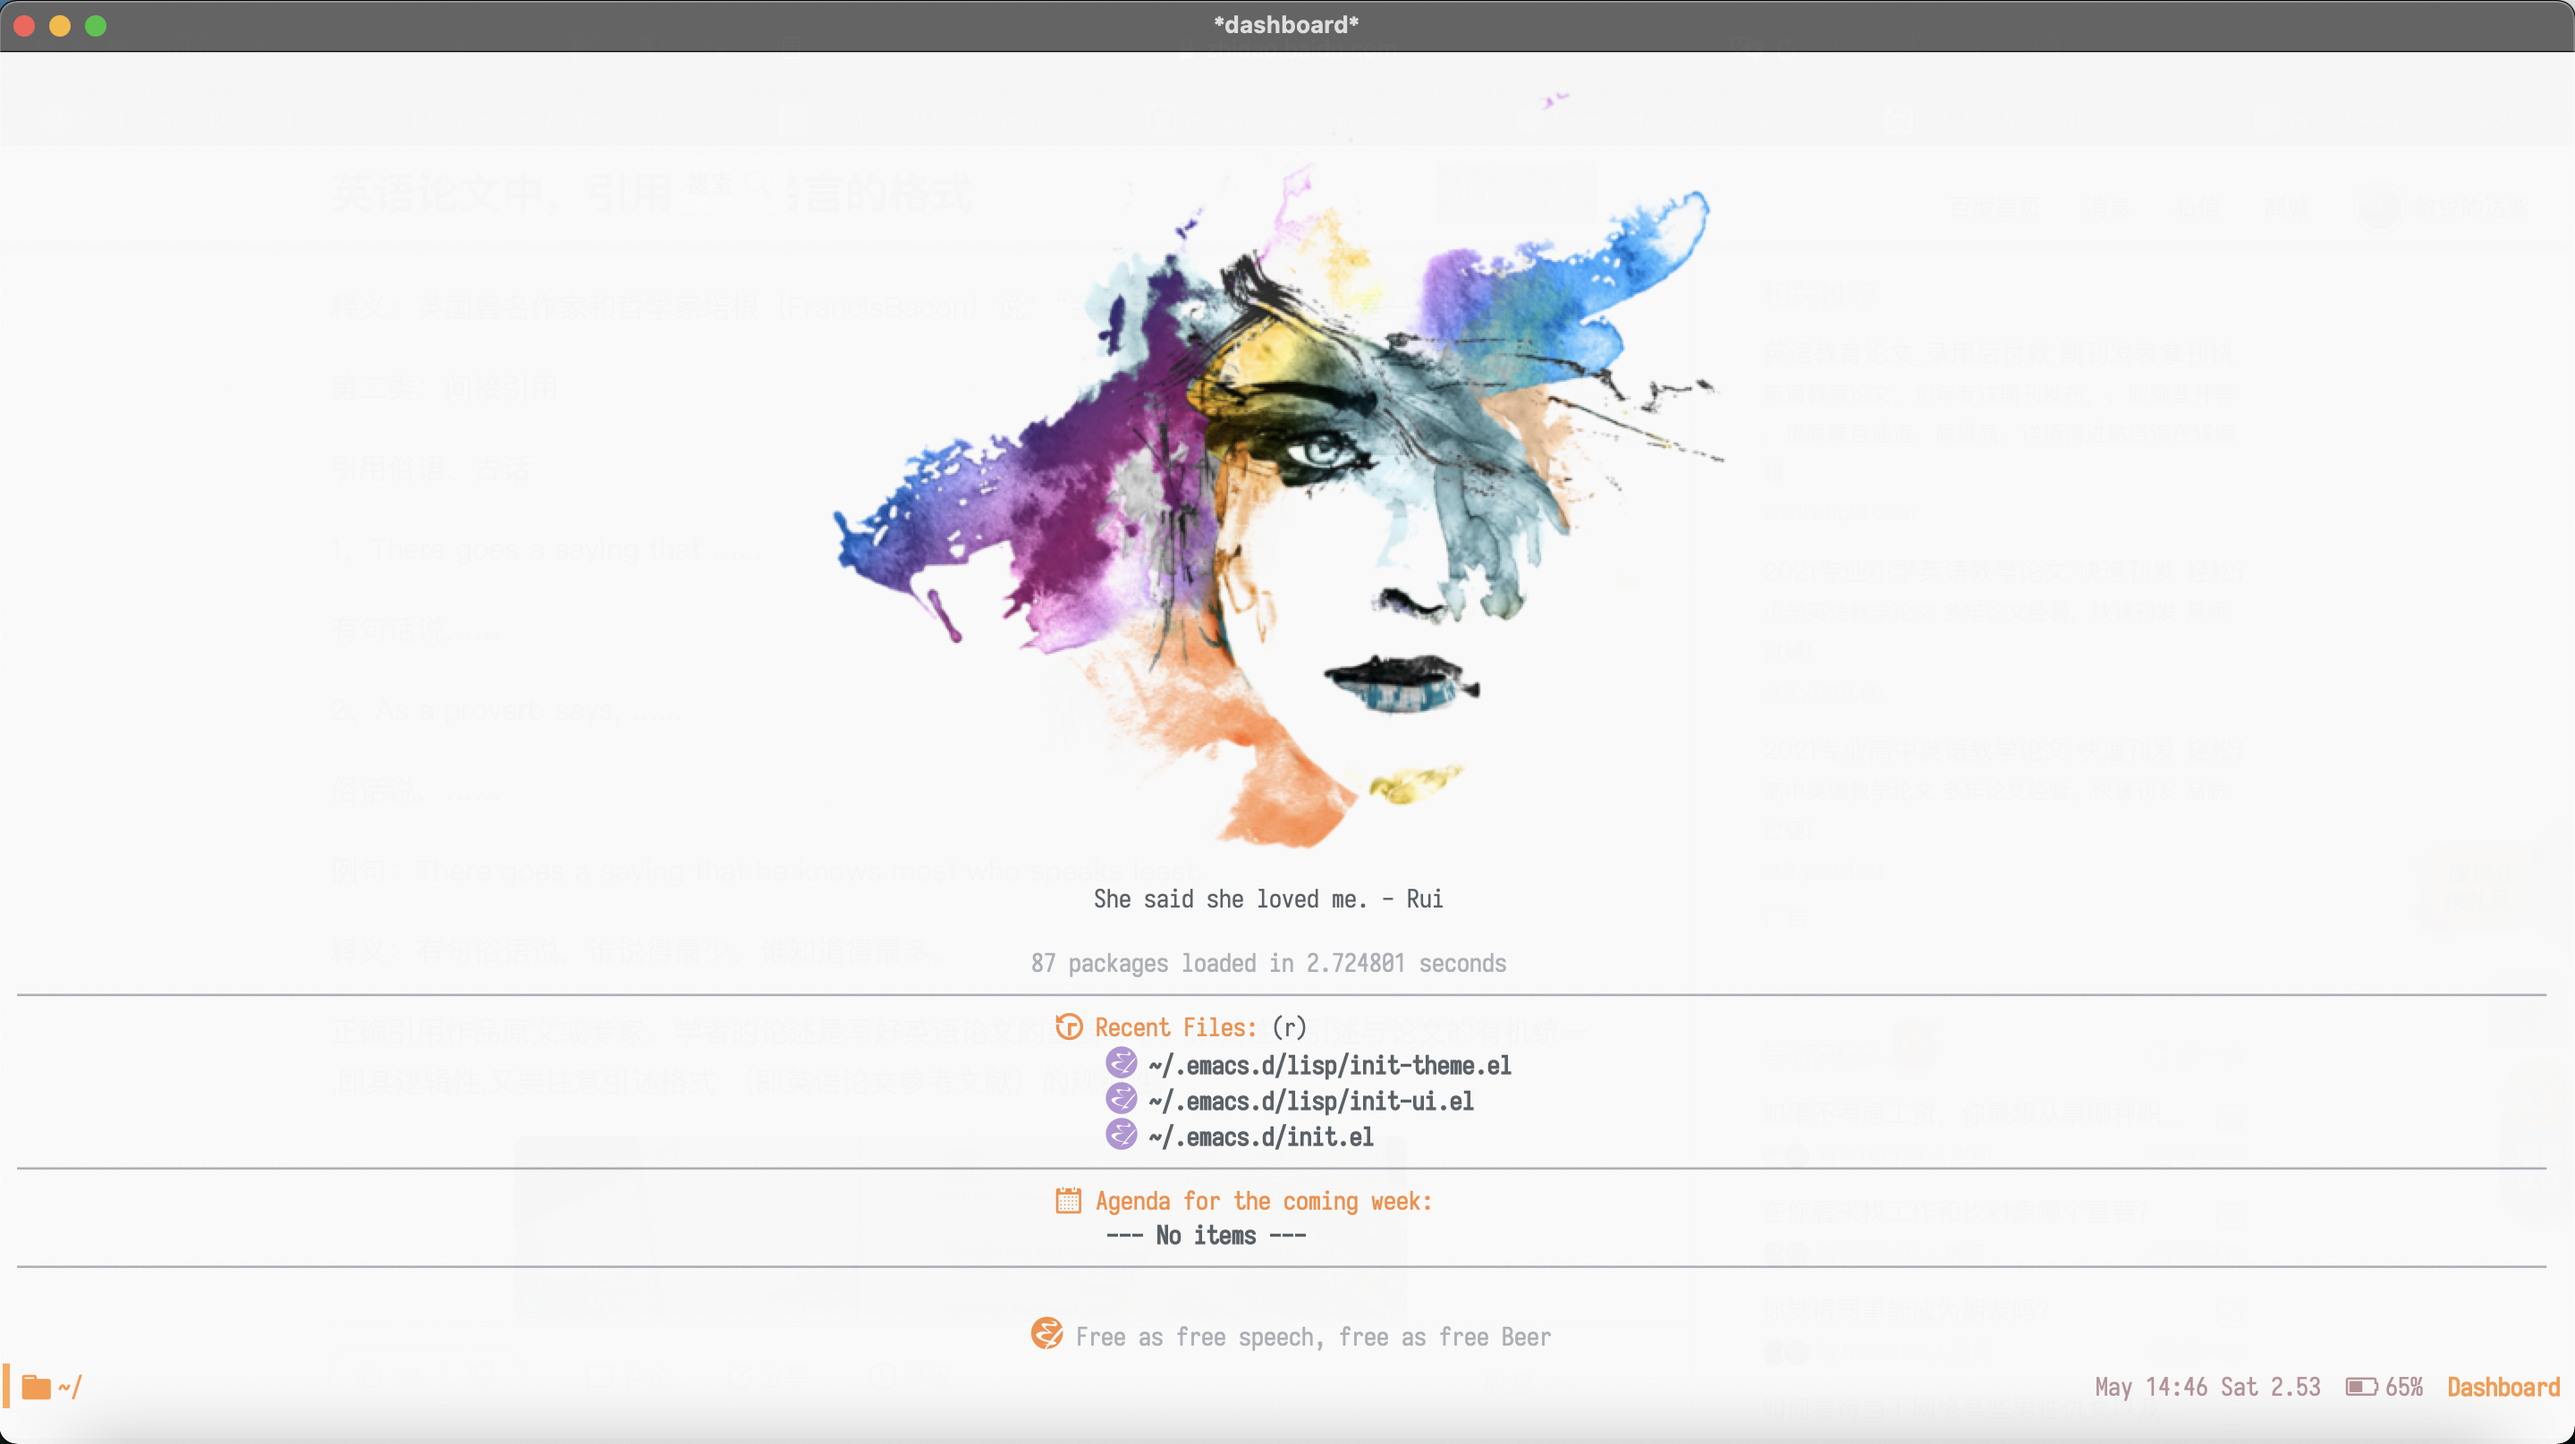
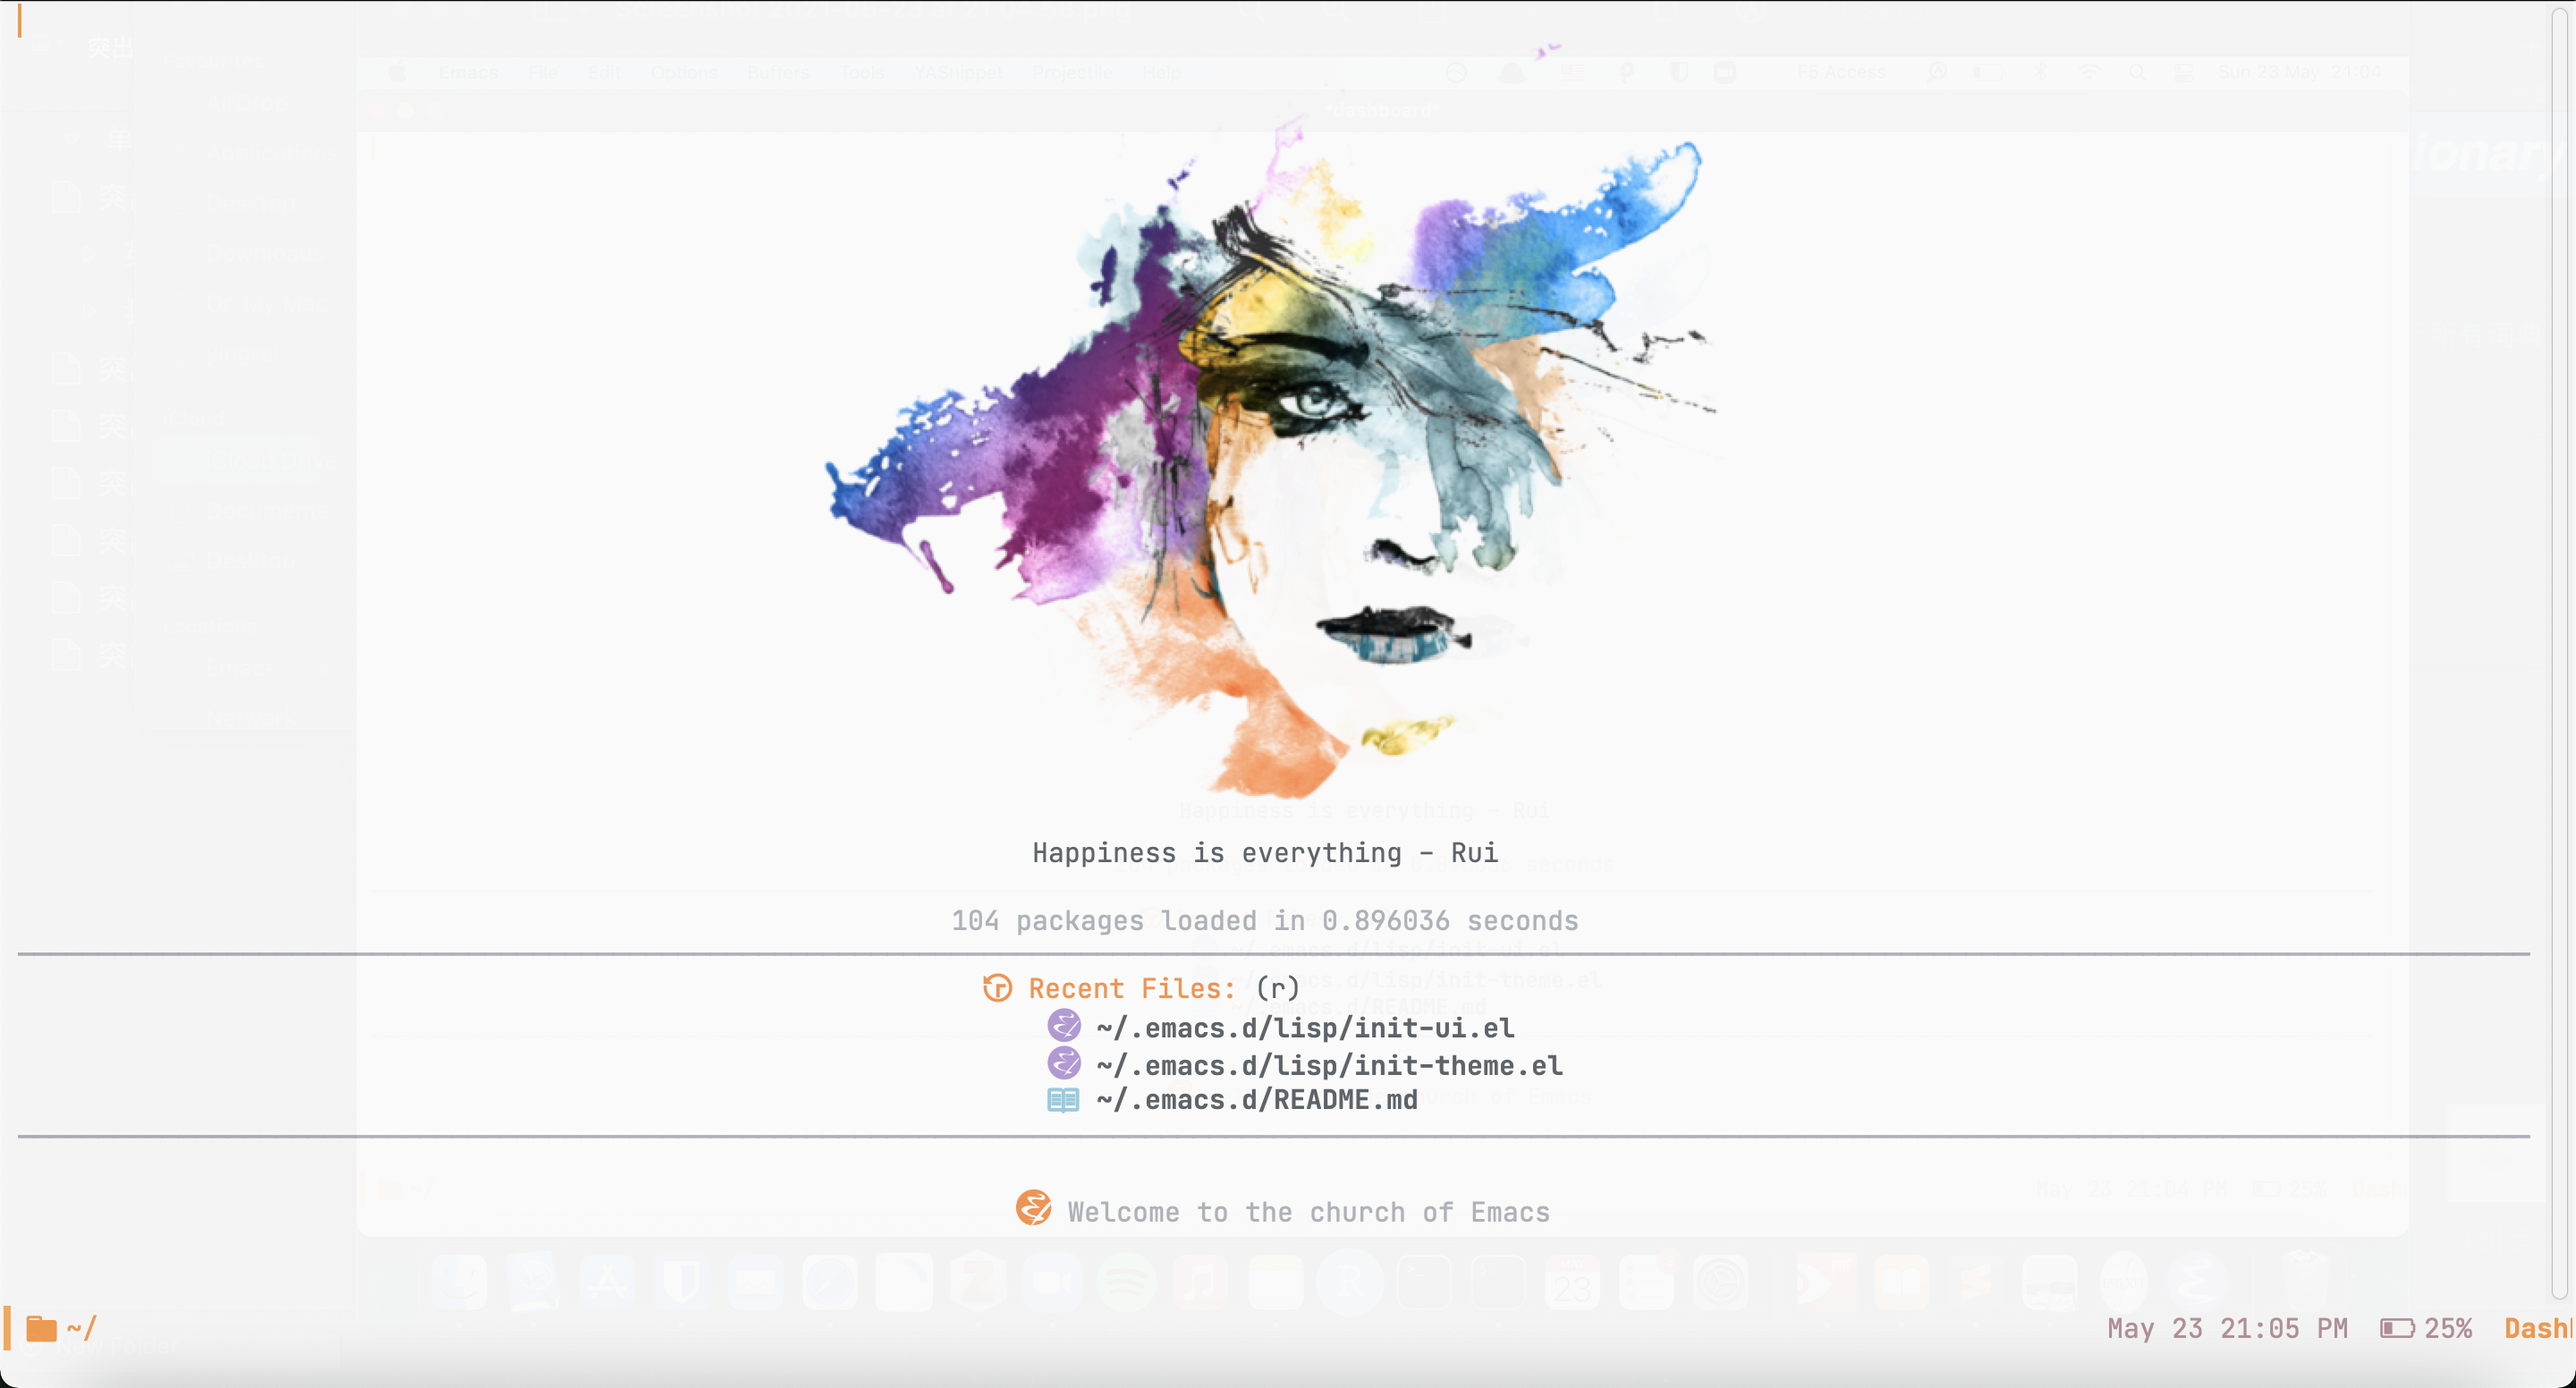
rename modules, other small changes

diff --git a/README.md b/README.md
@@ -1,12 +1,12 @@
 # About
- This is my Emacs init file(s) to implement a *self-use* cross-platform editor/IDE. It has been tested for Emacs >27 version on OSX (Big Sur), Linux(Ubuntu). Windows_NT may not be well supported because I use WSL2.
+ This is my Emacs init file(s) to implement a *self-use* cross-platform editor/IDE. It has been tested for Emacs 27.2 on OSX (Big Sur), Linux (Ubuntu 20). Windows_NT may not be well supported because I use WSL2.
 
 # Screenshot
 ![](screenshot.png)
 
 The splash is downloaded from [the free png image website](https://www.freepngimg.com)
 
-# How to install
+# Quickstart
 
 Install Emacs and download the init files in your `$HOME` directory:
 ```bash
@@ -14,17 +14,6 @@ cd ~
 git clone https://github.com/Leslieying/.emacs.d.git
 ```
 Then have some beverage and wait for downloading :smile:
-
-# Structure
-
-I divide my init files into several different elisp files and use init.el to call them.
-The structure is like:
-```text
-  +-- ~/.emacs.d
-     +-- init.el
-     +-- lisp folder
-         +-- init-*.el
-```
 
 # Features
 
